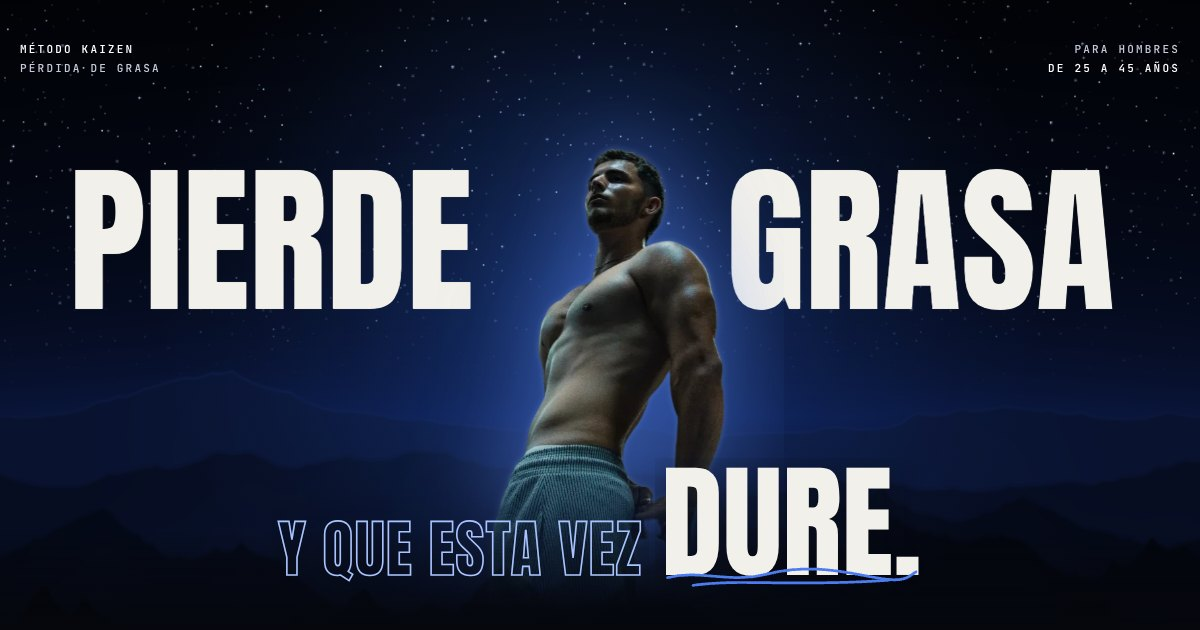
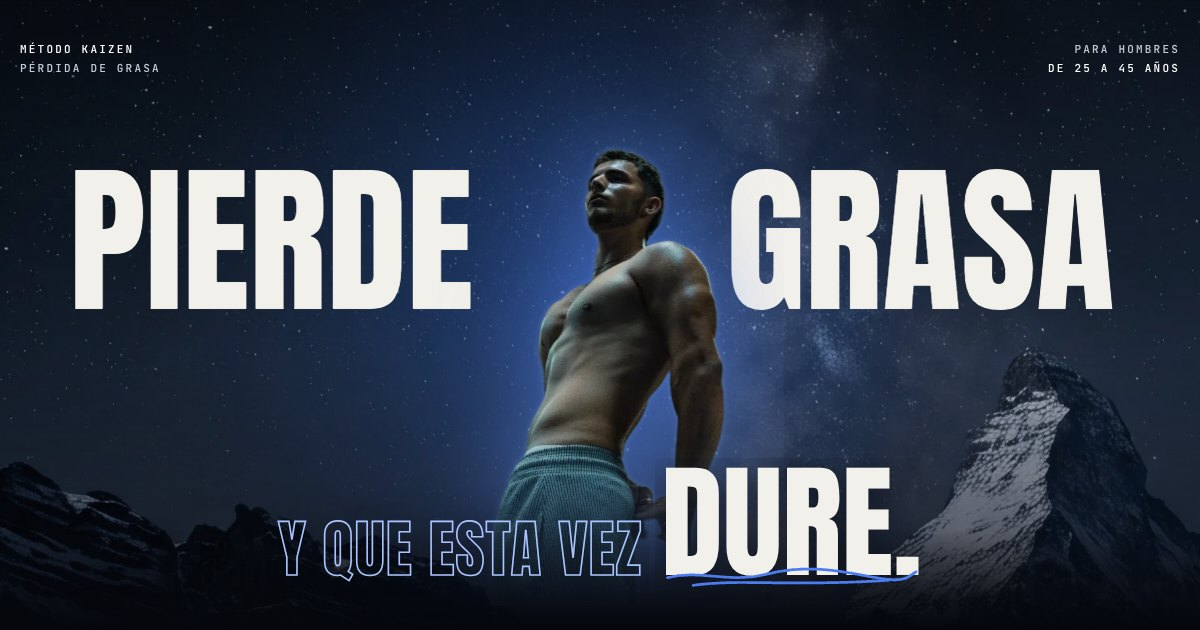
docs: actualiza las notas con los fondos fotográficos y la imagen para compartir
- NOTAS.md: cómo se generaron, ampliaron y recortaron las fotos de la
  montaña, cómo funcionan en la página y qué queda como mejora opcional.
- og.jpg regenerada con la nueva portada.

Claude-Session: https://claude.ai/code/session_01JEusGfQRYsX5S7zCGj23Bi

diff --git a/kaizen/NOTAS.md b/kaizen/NOTAS.md
@@ -32,7 +32,8 @@ Landing de captación del **Método Kaizen** (David Alzas Coach): pérdida de gr
 
 ## Dirección de arte
 
-- **Concepto:** la página es una ascensión. El cielo y las montañas son el hilo; las secciones opacas son los altos del camino y el hueso marca que ya hay luz.
+- **Concepto:** la página es una ascensión. La montaña es el hilo; las secciones opacas son los altos del camino y el hueso marca que ya hay luz.
+- **Fotos de la montaña:** cuatro imágenes de la misma cumbre (noche, hora azul, primera luz, amanecer arriba), generadas con IA. Solo paisaje: David y sus clientes salen siempre con sus fotos reales.
 - **Color (variables en `styles.css`):** noche `#05070D`, azul `#2B63D6`, azul claro `#4C7DF0`, hielo `#A9C3FF`, azul profundo `#1141A3`, hueso `#EFECE4`, amanecer `#F2B38B`.
 - **Letras:** Anton (titulares, mayúsculas), Instrument Sans (texto), JetBrains Mono (etiquetas pequeñas).
 - **Énfasis en titulares:** misma letra de titulares, en azul hielo (en hueso, azul profundo). En la portada el conector «Y QUE ESTA VEZ» va en contorno.
@@ -43,17 +44,17 @@ Landing de captación del **Método Kaizen** (David Alzas Coach): pérdida de gr
 
 | # | Sección | `id` | Qué hace |
 |---|---|---|---|
-| 1 | Portada | `#hero` | «Pierde grasa y que esta vez dure». David recortado entre las dos palabras. CTA y prueba social. |
+| 1 | Portada | `#hero` | «Pierde grasa y que esta vez dure». David recortado entre las dos palabras, bajo la Vía Láctea y con la cumbre al fondo. CTA y prueba social. |
 | 2 | Los 52 lunes | `#problema` | Escena fija: el contador sube y las semanas se tachan. Después, seis frases del cliente. |
 | 3 | Historia | `#historia` | De 65 a 95 kg, formación, −25 kg en 9 meses. Tres fotos. |
 | 4 | Manifiesto | `#kaizen` | Qué significa Kaizen; las palabras se encienden al bajar. |
 | 5 | Mecanismo | `#metodo` | Gráfico «rebote frente a paso a paso» (ilustración) y tabla comparativa. |
-| 6 | El ascenso | `#ascenso` | Escena fija: cinco etapas; la cumbre se acerca y amanece. |
+| 6 | El ascenso | `#ascenso` | Escena fija: cinco etapas sobre una película de cuatro fotos que cambian con las etapas (noche → hora azul → primera luz → cumbre). |
 | 7 | Resultados | `#resultados` | Cifras y tres casos como copias fotográficas. |
 | 8 | La mochila | `#incluye` | Qué recibe el cliente; mapa topográfico de fondo; nota de inversión. |
 | 9 | Para quién | `#para-quien` | Permiso de ascenso con sellos «Apto» / «No apto». |
 | 10 | Dudas | `#dudas` | Seis objeciones. |
-| 11 | La cumbre | `#aplicar` | Amanecer, pasos, compromiso y formulario. Cierre: «Que este sea el último lunes…». |
+| 11 | La cumbre | `#aplicar` | Foto del amanecer sobre el mar de nubes, pasos, compromiso y formulario. Cierre: «Que este sea el último lunes…». |
 
 Hay un botón de solicitud cada una o dos pantallas. En móvil hay un botón fijo que se oculta en la portada, junto al formulario y cuando ya se ve un botón de la propia sección.
 
@@ -63,17 +64,20 @@ Hay un botón de solicitud cada una o dos pantallas. En móvil hay un botón fij
 kaizen/
   index.html        ← GENERADO. No editar a mano.
   assets/           ← fotos, logos, imagen para compartir
+    fondos/         ← fondos de la montaña listos para la web (escritorio -d, móvil -m)
   src/
     styles.css  body.html  app.js  shader.frag   ← fuentes
     build.py                                     ← monta index.html
-    tools/                                       ← capturas, pruebas, vídeo
+    fondos/                                      ← las cuatro imágenes originales (1024 px)
+    tools/                                       ← capturas, pruebas, vídeo, fondos
   NOTAS.md
 ```
 
 - **Montar:** `python3 kaizen/src/build.py` (con `--artifact RUTA.html` genera además el fragmento para la vista previa de claude.ai).
 - **Librerías:** GSAP 3.12.5 + ScrollTrigger (cdnjs) y Lenis 1.0.42 (jsDelivr). Lenis solo con ratón; en móvil el scroll es nativo.
-- **El cielo:** un único `<canvas id="sky">` fijo con un shader WebGL (`shader.frag`) que dibuja estrellas, cordilleras en capas, la cumbre y el mar de nubes. Se controla con cuatro valores: `uAlt` (altura), `uDawn` (amanecer), `uPeak` (cumbre visible) y `uSummit` (vista desde arriba). Cada sección con clase `.window` deja ver el cielo y fija esos valores con `data-alt`, `data-dawn`, `data-peak`, `data-summit`; el ascenso los va cambiando con el scroll.
-- **Sin movimiento:** si el visitante tiene «reducir movimiento», no se añade la clase `js-motion`: todo se muestra estático y sin escenas fijas. Si no hay WebGL, se añade `no-gl` y queda un degradado.
+- **Fondos fotográficos:** la portada y la cumbre llevan un `.plate` (foto fija a la pantalla; la sección la recorta con `clip-path` y el contenido pasa por delante). El ascenso lleva `.as-film`: cuatro `.as-plate` apiladas que se funden y se desplazan según el scroll; los tramos están en `SPAN` dentro de `app.js`. Cada foto tiene versión apaisada y vertical (`<picture>`). La de la portada se precarga; las demás se descargan al acercarse (`data-src`).
+- **El cielo por código (respaldo):** `<canvas id="sky">` con un shader WebGL (`shader.frag`) que dibuja estrellas, cordilleras, la cumbre y el mar de nubes. Solo se crea si la foto de la sección visible tarda más de 450 ms o falla. Se controla con `uAlt`, `uDawn`, `uPeak` y `uSummit`, que cada sección `.window` fija con `data-alt`, `data-dawn`, `data-peak`, `data-summit`.
+- **Sin movimiento:** si el visitante tiene «reducir movimiento», no se añade la clase `js-motion`: todo se muestra estático, sin escenas fijas ni película (la portada y la cumbre conservan su foto). Si no hay fotos ni WebGL, se añade `no-gl` y queda un degradado.
 - **Formulario:** `iframe` de Jotform más su script oficial, que ajusta la altura y pasa los parámetros de la dirección (por ejemplo `?utm_source=instagram`). Dentro de una vista previa enmarcada (claude.ai) se muestra un botón que abre el formulario, porque allí no se pueden incrustar páginas externas.
 - **Recorte de la portada:** `assets/hero-david-cut.webp` se obtuvo de la foto original con dos modelos de recorte (`tools/recorte_mascaras.py`), combinando las dos máscaras y limpiando el borde.
 
@@ -95,7 +99,7 @@ node kaizen/src/tools/shoot.js CARPETA_SALIDA "d:1440x900,m:390x844:m"
 node kaizen/src/tools/video.js CARPETA_FOTOGRAMAS m 25
 ```
 
-`test.js` comprueba formulario, contador de lunes, ascenso, botón fijo, movimiento reducido, vista enmarcada y sin WebGL. `shoot.js` captura cada sección. `video.js` graba el recorrido fotograma a fotograma (`m` móvil, `d` escritorio); después se monta con `ffmpeg`. `og.js` regenera la imagen para compartir.
+`test.js` comprueba formulario, fondos, contador de lunes, ascenso y su película, botón fijo, movimiento reducido, vista enmarcada, respaldo sin fotos y sin WebGL. `shoot.js` captura cada sección. `video.js` graba el recorrido fotograma a fotograma (`m` móvil, `d` escritorio); después se monta con `ffmpeg`. `og.js` regenera la imagen para compartir.
 
 ### Actualizar la vista previa de claude.ai
 
@@ -111,60 +115,47 @@ Leer primero el artifact (acción `read` con su dirección) y publicar con esa m
 - Política de privacidad enlazada desde la página.
 - Publicación: decidir si se crea un proyecto de Vercel solo para Kaizen y se hace público.
 - Probar la fluidez en un móvil real.
+- Decidir si se añade vídeo a la montaña (necesita créditos de Higgsfield).
 
-## Plan Higgsfield
+## Fondos de la montaña (hecho) y vídeo (opcional)
 
-David quiere usar su conector **«highsfield»** (Higgsfield, generación de imagen y vídeo con IA) para dar a la página el nivel fotorrealista de la referencia de las montañas. El conector solo se carga al iniciar una sesión; debe estar conectado en https://claude.ai/customize/connectors.
+### Cómo se hicieron las fotos
 
-### Lo comprobado con el conector
+- Generadas con la herramienta de imagen de **Figma** (modelo `gemini-3.1-flash-image`, 1024×1024), en un archivo de Figma llamado «Kaizen · Fondos de la landing». Cada imagen gasta créditos de IA de la cuenta de Figma de David.
+- Los originales están en `kaizen/src/fondos/k0…k3.webp`. Los enlaces de descarga de Figma caducan a los 7 días.
+- Ampliadas a 4096 px en local con `tools/ampliar.py` y el modelo `clear_reality_x4.onnx` (github.com/facefusion/facefusion-assets, versión `models-3.0.0`). Da un resultado más natural que `real_esrgan_x2` y `ultra_sharp_x4`.
+- Recortadas para la web con `tools/fondos.py` (ventanas y tamaños dentro del script). La portada usa otro recorte de la imagen de la noche, con la cumbre a un lado.
 
-- El conector se llama `highsfield` y sus herramientas empiezan por `mcp__highsfield__`. Generar exige créditos en la cuenta de Higgsfield (`balance` los muestra; `generate_image` y `generate_video` admiten `get_cost: true` para saber el coste sin gastar).
-- **Imagen:** `nano_banana_2_1`, `gpt_image_2` y `cinematic_studio_2_5` admiten imagen de referencia y hasta 4K; a 2K cuestan 2 créditos por imagen.
-- **Vídeo con imagen inicial y final** (`start_image`, `end_image`), clip de 5 s: `minimax_h3` (2K) 10 créditos; `wan3_0` (1080p, sin audio) 17,5; `flux_3_video` (1080p, sin audio) 40. Sin imagen final, `seedance_2_5` cuesta 35.
-- Presupuesto orientativo del plan: 5 imágenes (10 créditos) y 4 clips (40–70 créditos).
-- **Formato cuadrado:** generar las imágenes clave en 1:1 con la cumbre algo a la derecha del centro. Un mismo archivo sirve para el recorte 16:9 de escritorio y el 9:16 de móvil.
-- **Antes del vídeo, las imágenes ya dan resultado:** con las cuatro imágenes clave se puede montar el ascenso como fundido entre ellas guiado por el scroll, con un leve movimiento de cámara. El vídeo es una mejora posterior.
+```bash
+python3 kaizen/src/tools/ampliar.py clear_reality_x4.onnx kaizen/src/fondos/k0.webp MAESTROS/k0.png
+```
+
+```bash
+python3 kaizen/src/tools/fondos.py MAESTROS kaizen/assets/fondos
+```
+
+Descripciones usadas (todas terminan en «No people, no animals, no buildings, no text, no logos, no watermark»):
+
+| Clave | Momento | Idea |
+|---|---|---|
+| k0 | Campo base, noche | Valle oscuro mirando hacia el Cervino nevado bajo la Vía Láctea, niebla en el valle, sendero en primer plano. |
+| k1 | Media ladera, hora azul | Desde una arista por encima de la niebla, la cumbre más cerca, huellas en la nieve, primer resplandor en el horizonte. |
+| k2 | Arista alta, primera luz | La pirámide final con luz rosada, valles en sombra azul, mar de nubes. |
+| k3 | Cumbre, amanecer | Desde arriba: arista nevada con huellas, mar de nubes, sol recién salido. |
+
+Para que la montaña sea la misma en todas, en las descripciones se nombra el Cervino («the Matterhorn»).
 
 ### Reglas
 
-1. **Solo paisaje.** No generar ni retocar personas, cuerpos, fotos de antes y después ni testimonios. David y sus clientes salen siempre con sus fotos reales.
-2. **Enseñar antes de integrar.** Cada generación gasta créditos de su cuenta: empezar por las imágenes fijas, enviárselas y esperar su visto bueno antes de generar vídeo.
-3. **El rendimiento manda.** Contenido principal visible en menos de 2,5 s en 4G. Vídeo siempre sin sonido, con imagen de espera, y en móvil una versión más ligera o una imagen fija.
-4. **El cielo por código se queda** como respaldo (mientras carga, sin movimiento, sin WebGL).
+1. **Solo paisaje.** No generar ni retocar personas, cuerpos, fotos de antes y después ni testimonios.
+2. **Enseñar antes de integrar** y avisar de que cada generación gasta créditos.
+3. **El rendimiento manda.** Cada fondo pesa unos 100 KB; si se añade vídeo, siempre sin sonido, con imagen de espera y, en móvil, versión ligera o imagen fija.
 
-### Qué generar
+### Mejora opcional: vídeo con Higgsfield
 
-Aspecto común para todos los planos (añadir al final de cada descripción):
+David tiene un conector llamado `highsfield` (herramientas `mcp__highsfield__*`). Generar exige créditos en su cuenta de Higgsfield (`balance` los muestra; `generate_image` y `generate_video` admiten `get_cost: true` para saber el coste sin gastar).
 
-> Photorealistic cinematic alpine landscape, large-format cinema camera, 35mm anamorphic lens, natural atmospheric haze, fine film grain, deep navy shadows, cobalt blue midtones, restrained contrast. No people, no animals, no buildings, no text, no logos, no watermark.
-
-**A. El ascenso (prioridad 1).** Cuatro imágenes clave de la misma montaña y tres tramos de vídeo que las unen. Sustituye al cielo por código en `#ascenso`: el vídeo avanza con el scroll.
-
-| Clave | Momento | Descripción |
-|---|---|---|
-| K0 | Campo base, noche | Wide low-angle view from a dark valley floor at night, looking up at one dominant sharp snow-capped peak, slightly right of centre, sky full of stars, thin fog in the valley, layered ridgelines in near-black silhouette, faint cold moonlight on the snow. |
-| K1 | Media ladera, hora azul | Same mountain, camera higher on the slope at blue hour before dawn, the peak larger and closer, rock ribs and snowfields visible, valley fog below, last stars fading, a faint warm line on the horizon. |
-| K2 | Arista alta, primera luz | Same mountain from a high ridge at first light, the snow face catching warm pink-orange alpenglow while the valleys stay deep blue, clouds filling the valleys below. |
-| K3 | Cumbre, amanecer | View from the summit above an endless sea of clouds at sunrise, warm orange band on the horizon, deep blue sky above, a few distant peaks breaking through the clouds, calm and vast. |
-
-Usar K0 como imagen de referencia para K1–K3 y así mantener la misma montaña. Tramos de vídeo de unos 5 s (K0→K1, K1→K2, K2→K3), con imagen inicial y final si el modelo lo permite:
-
-> Slow, steady aerial ascent: the camera rises and drifts forward toward the peak in one continuous move, mist moving gently, no cuts, no camera shake.
-
-Formato 16:9 con la cumbre cerca del centro (en móvil se verá la franja central). Si el resultado en vertical no convence, generar también 9:16.
-
-**B. La cumbre (prioridad 2).** Un bucle de 5–8 s para `#aplicar`:
-
-> Above the clouds at sunrise, the sea of clouds drifts slowly, the light grows very gently, locked-off camera, seamless loop.
-
-**C. La portada (prioridad 3, opcional).** Una imagen fija de fondo, con el centro despejado para colocar encima el recorte real de David:
-
-> Night alpine panorama, starry sky, layered blue mountain ridges low in the frame, soft cobalt glow in the centre of the sky, calm empty centre.
-
-No animar el retrato de David con IA salvo que él lo pida expresamente; si se prueba, comparar con la foto original y descartar cualquier resultado que cambie su cara o su físico.
-
-### Cómo integrarlo
-
-- **Ascenso:** extraer los fotogramas (`ffmpeg`) a WebP: unos 120 a 1280×720 para escritorio y unos 90 a 720 px de ancho para móvil, con un peso total orientativo de 2–4 MB. Dibujarlos en un `<canvas>` dentro de `.ascent-stage`, detrás del velo, usando el mismo progreso que ya calcula la función `update(p)` del ascenso en `app.js`. Cargar primero uno de cada cuatro fotogramas y luego el resto, y empezar a cargar cuando la sección se acerque a la pantalla. Hasta entonces se ve el cielo por código.
-- **Cumbre y portada:** `<video muted playsinline loop autoplay poster="…">` solo en pantallas grandes; en móvil, la imagen fija.
-- Repetir `test.js`, las capturas y el vídeo del recorrido, y enseñárselo a David antes de publicar.
+- **Vídeo con imagen inicial y final** (`start_image`, `end_image`), clip de 5 s: `minimax_h3` (2K) 10 créditos; `wan3_0` (1080p, sin audio) 17,5; `flux_3_video` (1080p, sin audio) 40.
+- Con créditos, se podrían unir las cuatro fotos con tres clips (k0→k1, k1→k2, k2→k3) y un bucle del mar de nubes para la cumbre: unos 40–70 créditos. Descripción del movimiento: «Slow, steady aerial ascent: the camera rises and drifts forward toward the peak in one continuous move, mist moving gently, no cuts, no camera shake.»
+- Integración: extraer los fotogramas a WebP (unos 120 en escritorio y 90 en móvil, 2–4 MB en total), dibujarlos en un `<canvas>` dentro de `.as-film` con el mismo progreso que usa `film(f)`, y cargarlos al acercarse la sección. Las fotos actuales quedarían como imagen de espera.
+- No animar el retrato de David con IA salvo que él lo pida expresamente; si se prueba, comparar con la foto original y descartar cualquier resultado que cambie su cara o su físico.
